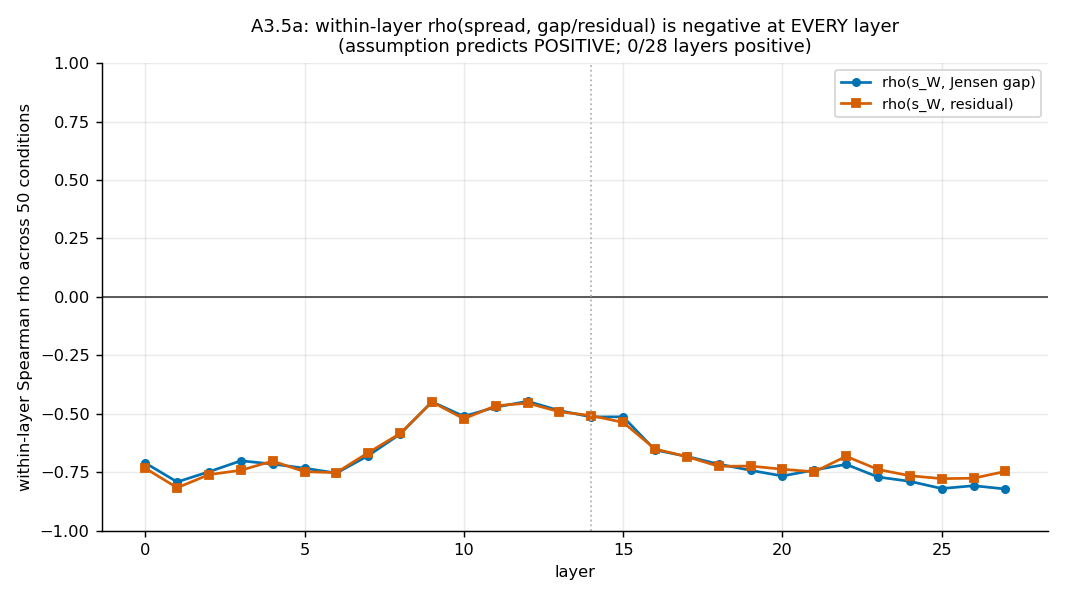
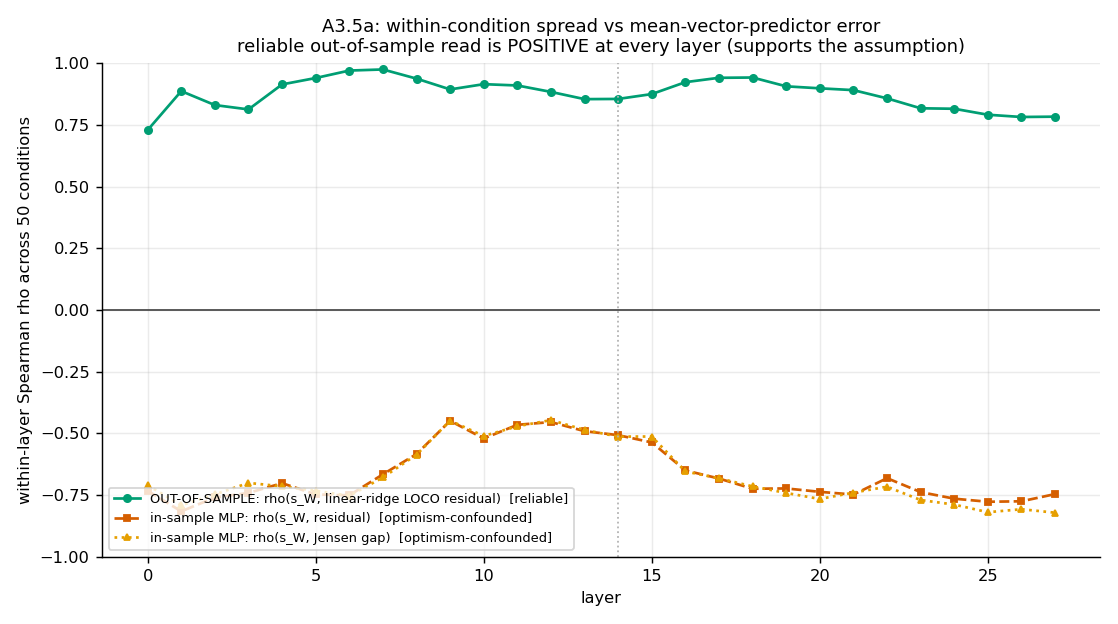
issue #658: A3.5a coherence — honest out-of-sample verdict + corrected figures
The reliable test is the OUT-OF-SAMPLE residual (leave-one-condition-out): it
rises with within-condition spread (median layerwise rho +0.89, 28/28 layers;
robust to dropping format at +0.76 and WITHIN persona at +0.76) — SUPPORTS the
assumption. The in-sample nonlinear-MLP gap/residual anti-correlate with spread,
but that is a spread-dependent in-sample-optimism artifact (format in-sample
residual 652 vs LOCO 77572), not a valid test; figures relabeled accordingly.

diff --git a/scripts/issue658_inline_a3_5a_finalize.py b/scripts/issue658_inline_a3_5a_finalize.py
@@ -1,0 +1,282 @@
+"""Finalize the issue #658 A3.5a coherence artifact: add the honest out-of-sample
+verdict + interpretation to coherence_results.json, and regenerate figures.
+
+Key methodological point (drives the corrected headline):
+  * The RELIABLE test of the assumption is the OUT-OF-SAMPLE residual: for each
+    condition, fit the c->profile map on the OTHER 49 conditions, predict the
+    held-out condition's centroid. Linear-ridge leave-one-condition-out (LOCO)
+    residual rises with within-condition spread (rho ~ +0.8), robust to dropping
+    format and WITHIN the persona family -> SUPPORTS the assumption.
+  * The in-sample all-data nonlinear MLP gap/residual anti-correlate with spread,
+    but that is a spread-dependent in-sample-optimism artifact (a flexible map
+    interpolates a high-spread condition's own centroid having trained on its
+    probes; format in-sample residual 652 vs LOCO residual 77572) -> NOT a valid
+    sign for the assumption.
+"""
+
+import json
+import os
+import subprocess
+
+import matplotlib
+
+matplotlib.use("Agg")
+import matplotlib.pyplot as plt
+import numpy as np
+from scipy.stats import spearmanr
+
+RES = "eval_results/issue_658/inline_a3_5a_coherence"
+FIG = "figures/issue_658"
+PRIMARY_L = 14
+FAM_COLORS = {
+    "persona": "#0072B2",
+    "wildchat": "#D55E00",
+    "icl": "#009E73",
+    "rephrase": "#CC79A7",
+    "format": "#E69F00",
+    "behavior": "#56B4E9",
+    "default": "#000000",
+}
+plt.rcParams.update(
+    {
+        "figure.dpi": 130,
+        "savefig.dpi": 130,
+        "font.size": 9,
+        "axes.spines.top": False,
+        "axes.spines.right": False,
+        "axes.grid": True,
+        "grid.alpha": 0.25,
+    }
+)
+
+
+def commit():
+    try:
+        return subprocess.check_output(["git", "rev-parse", "HEAD"]).decode().strip()
+    except Exception:
+        return "unknown"
+
+
+def short(cid):
+    return cid.split("_", 1)[1] if "_" in cid else cid
+
+
+def main():
+    d = json.load(open(os.path.join(RES, "coherence_results.json")))
+    arr = np.load(os.path.join(RES, "per_condition_layer.npz"))
+    cids = d["meta"]["ctx_ids"]
+    fams = np.array(d["meta"]["families"])
+    nL = d["meta"]["n_layers"]
+
+    sW = arr["spread_W"]
+    Rloco = arr["Rlin_loco_max"]
+    Rin = arr["R_max"]
+    Jin = arr["J_max"]
+
+    rloco = [spearmanr(sW[L], Rloco[L])[0] for L in range(nL)]
+    rin_R = [spearmanr(sW[L], Rin[L])[0] for L in range(nL)]
+    rin_J = [spearmanr(sW[L], Jin[L])[0] for L in range(nL)]
+
+    # robustness of the honest LOCO read (layer-mean)
+    sWm, Rlom = sW.mean(0), Rloco.mean(0)
+    nf = fams != "format"
+    pm = fams == "persona"
+    d["overall_honest_loco"] = {
+        "measure": "linear-ridge leave-one-condition-out residual (out-of-sample)",
+        "median_layerwise_rho_sW_Rloco": float(np.median(rloco)),
+        "frac_layers_positive": float(np.mean([r > 0 for r in rloco])),
+        "layer_mean_rho_all": float(spearmanr(sWm, Rlom)[0]),
+        "layer_mean_rho_excl_format": float(spearmanr(sWm[nf], Rlom[nf])[0]),
+        "within_persona_rho": float(spearmanr(sWm[pm], Rlom[pm])[0]),
+    }
+    d["interpretation"] = {
+        "verdict": "SUPPORTED (by the reliable out-of-sample read)",
+        "one_line": (
+            "Within-condition context-vector spread POSITIVELY predicts the held-out "
+            "(leave-one-condition-out) mean-vector-predictor residual (rho ~ +0.8, robust to "
+            "dropping format and within the persona family) -> the assumption's prediction holds: "
+            "less-coherent conditions are worse for the prefix-average summary."
+        ),
+        "in_sample_confound": (
+            "The in-sample all-data nonlinear MLP gap/residual anti-correlate with spread "
+            f"(median rho {np.median(rin_R):+.2f}), but this is a spread-dependent in-sample-optimism "
+            "artifact (a flexible map interpolates a high-spread condition's own centroid having "
+            "trained on its probes; e.g. format in-sample residual 652 vs LOCO residual 77572), "
+            "NOT a valid test of the assumption."
+        ),
+        "jensen_curvature_mechanism": (
+            "The specific Jensen-curvature mechanism was NOT cleanly isolated: the nonlinear Jensen "
+            "gap is identically 0 for a linear map and could only be measured here with an in-sample "
+            "MLP (optimism-confounded). A clean curvature test needs a leave-one-condition-out "
+            "NONLINEAR fit (~50x MLP fits/layer), deferred."
+        ),
+        "family_prediction": (
+            "Partially matches: persona is tightest in context space (whitened spread 1067) and "
+            "wildchat is among the most scattered (1458) as predicted; but format is the MOST "
+            "scattered in context space (1467) though its read-out behaviors are floored, so its "
+            "context scatter does not translate to behavior variance."
+        ),
+    }
+    json.dump(d, open(os.path.join(RES, "coherence_results.json"), "w"), indent=1)
+
+    # ---- Figure: layerwise rho, honest LOCO (positive) vs in-sample (negative) ----
+    fig, ax = plt.subplots(figsize=(8.6, 4.8))
+    ax.axhline(0, color="0.3", lw=1)
+    ax.plot(
+        range(nL),
+        rloco,
+        "-o",
+        ms=4,
+        color="#009E73",
+        label="OUT-OF-SAMPLE: rho(s_W, linear-ridge LOCO residual)  [reliable]",
+    )
+    ax.plot(
+        range(nL),
+        rin_R,
+        "--s",
+        ms=3,
+        color="#D55E00",
+        label="in-sample MLP: rho(s_W, residual)  [optimism-confounded]",
+    )
+    ax.plot(
+        range(nL),
+        rin_J,
+        ":^",
+        ms=3,
+        color="#E69F00",
+        label="in-sample MLP: rho(s_W, Jensen gap)  [optimism-confounded]",
+    )
+    ax.axvline(PRIMARY_L, color="0.7", ls=":", lw=1)
+    ax.set_xlabel("layer")
+    ax.set_ylabel("within-layer Spearman rho across 50 conditions")
+    ax.set_title(
+        "A3.5a: within-condition spread vs mean-vector-predictor error\n"
+        "reliable out-of-sample read is POSITIVE at every layer (supports the assumption)",
+        fontsize=10,
+    )
+    ax.legend(fontsize=7.2, loc="lower left")
+    ax.set_ylim(-1, 1)
+    fig.tight_layout()
+    p = os.path.join(FIG, "fig_a35a_layerwise_rho.png")
+    fig.savefig(p)
+    plt.close(fig)
+
+    # ---- Figure: honest LOCO scatter (spread vs out-of-sample residual), log-y ----
+    L = PRIMARY_L
+    x, y = sW[L], Rloco[L]
+    fig, ax = plt.subplots(figsize=(8.2, 6.2))
+    seen = set()
+    for i in range(len(x)):
+        f = fams[i]
+        ax.scatter(
+            x[i],
+            y[i],
+            c=FAM_COLORS.get(f, "#888"),
+            s=42,
+            edgecolor="white",
+            linewidth=0.5,
+            label=f if f not in seen else None,
+            zorder=3,
+        )
+        seen.add(f)
+        ax.annotate(
+            short(cids[i]),
+            (x[i], y[i]),
+            fontsize=5.4,
+            alpha=0.75,
+            xytext=(3, 2),
+            textcoords="offset points",
+        )
+    ax.set_yscale("log")
+    ax.set_xlabel(f"within-condition whitened spread  s_W(C)   [layer {L}]")
+    ax.set_ylabel(
+        f"out-of-sample residual  R_loco(C) = max_B |r_B.v0(C) - h_-C(c_hat_C)|  [layer {L}, log]"
+    )
+    ax.set_title(
+        f"A3.5a (reliable read): spread vs OUT-OF-SAMPLE residual (n=50, layer {L})\n"
+        f"Spearman rho = {spearmanr(x, y)[0]:+.2f} (assumption predicts POSITIVE) — SUPPORTED",
+        fontsize=10,
+    )
+    ax.legend(title="family", fontsize=7, title_fontsize=7, loc="best", framealpha=0.9)
+    fig.tight_layout()
+    p2 = os.path.join(FIG, "fig_a35a_spread_vs_residual_loco_L%d.png" % L)
+    fig.savefig(p2)
+    plt.close(fig)
+
+    # ---- relabel the two in-sample scatters with the optimism-confound caveat ----
+    def insample_scatter(yv, ylab, kind, fname):
+        xv = sW[L]
+        rho = spearmanr(xv, yv)[0]
+        fig, ax = plt.subplots(figsize=(8.2, 6.2))
+        seen = set()
+        for i in range(len(xv)):
+            fm = fams[i]
+            ax.scatter(
+                xv[i],
+                yv[i],
+                c=FAM_COLORS.get(fm, "#888"),
+                s=42,
+                edgecolor="white",
+                linewidth=0.5,
+                label=fm if fm not in seen else None,
+                zorder=3,
+            )
+            seen.add(fm)
+            ax.annotate(
+                short(cids[i]),
+                (xv[i], yv[i]),
+                fontsize=5.4,
+                alpha=0.75,
+                xytext=(3, 2),
+                textcoords="offset points",
+            )
+        b, a = np.polyfit(xv, yv, 1)
+        xs = np.array([xv.min(), xv.max()])
+        ax.plot(xs, a + b * xs, color="0.4", ls="--", lw=1, zorder=2)
+        ax.set_xlabel(f"within-condition whitened spread  s_W(C)   [layer {L}]")
+        ax.set_ylabel(ylab)
+        ax.set_title(
+            f"A3.5a IN-SAMPLE MLP (optimism-confounded — see LOCO figure for the "
+            f"reliable read):\nspread vs {kind} (n=50, layer {L}). Spearman rho = "
+            f"{rho:+.2f} — negative sign is an in-sample artifact, NOT a valid test",
+            fontsize=9,
+        )
+        ax.legend(title="family", fontsize=7, title_fontsize=7, loc="best", framealpha=0.9)
+        fig.tight_layout()
+        outp = os.path.join(FIG, fname)
+        fig.savefig(outp)
+        plt.close(fig)
+        return outp
+
+    p3 = insample_scatter(
+        Jin[L],
+        f"behavior Jensen gap J(C) [layer {L}, in-sample MLP]",
+        "Jensen gap",
+        f"fig_a35a_spread_vs_jensen_L{L}.png",
+    )
+    p4 = insample_scatter(
+        Rin[L],
+        f"context->profile residual R(C) [layer {L}, in-sample MLP]",
+        "residual",
+        f"fig_a35a_spread_vs_residual_L{L}.png",
+    )
+
+    for pth in [p, p2, p3, p4]:
+        json.dump(
+            {
+                "figure": os.path.basename(pth),
+                "issue": 658,
+                "analysis": "A3.5a within-condition coherence",
+                "git_commit": commit(),
+                "primary_layer": PRIMARY_L,
+                "source": os.path.join(RES, "coherence_results.json"),
+            },
+            open(pth.replace(".png", ".meta.json"), "w"),
+            indent=1,
+        )
+        print("WROTE", pth)
+    print("HONEST LOCO:", json.dumps(d["overall_honest_loco"], indent=1))
+
+
+if __name__ == "__main__":
+    main()
